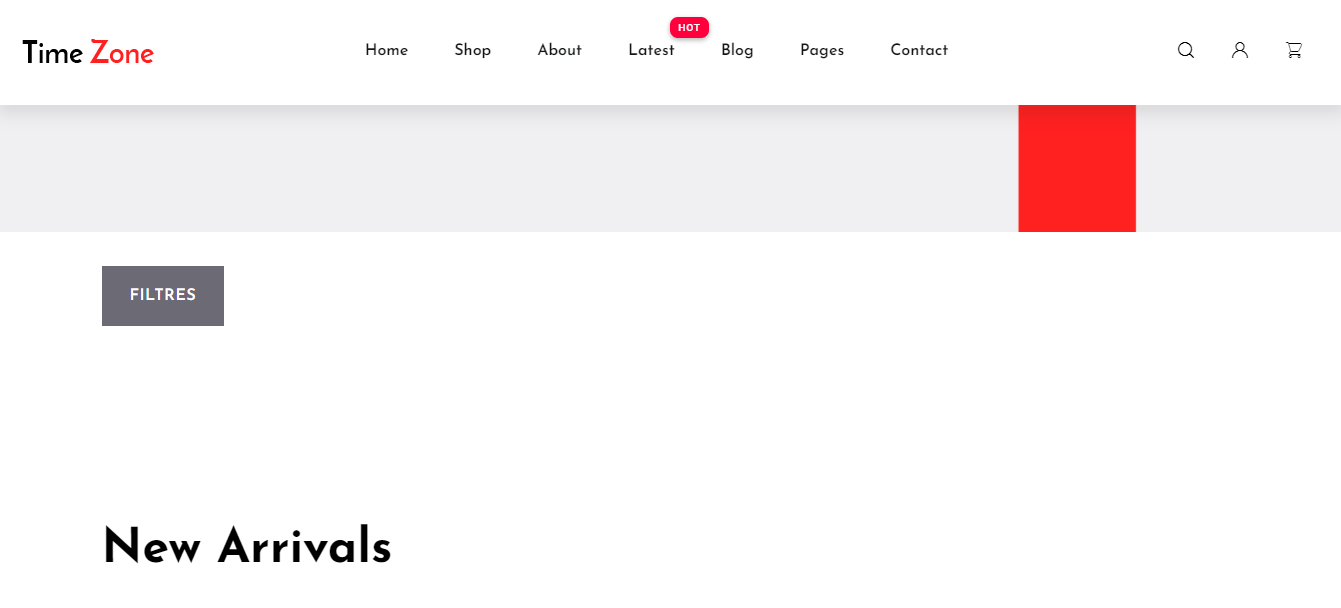
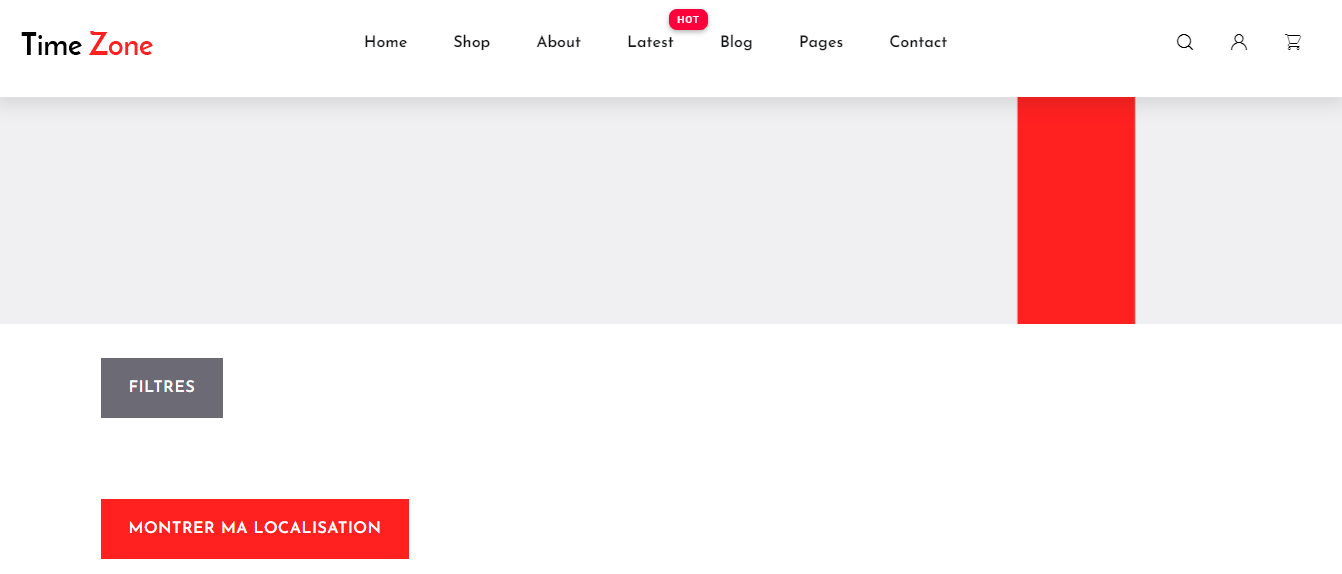
deux attributs longitude + latitude, adding a openstreetmap + add markers in map dynamically + geolocalisation => get current position

diff --git a/public/Map.js b/public/Map.js
@@ -1,0 +1,53 @@
+let $map =document.querySelector('#map')
+
+    class LeafletMap{
+
+    constructor() {
+    this.map = null
+    this.bounds=[]
+}
+
+    async load(element){
+    return new Promise((resolve, reject) => {
+    this.map = L.map(element)
+    L.tileLayer('https://api.mapbox.com/styles/v1/{id}/tiles/{z}/{x}/{y}?access_token={accessToken}', {
+    attribution: 'Map data &copy; <a href="https://www.openstreetmap.org/copyright">OpenStreetMap</a> contributors, Imagery © <a href="https://www.mapbox.com/">Mapbox</a>',
+    maxZoom: 18,
+    id: 'mapbox/streets-v11',
+    tileSize: 512,
+    zoomOffset: -1,
+    accessToken: 'pk.eyJ1Ijoic3BlYWt5OTgiLCJhIjoiY2ttbnA3NWtiMGpyZTJ1cGUzdG56bjN4cSJ9.SntRibYIa_8VaZnyFAZ-jA'
+}).addTo(this.map);
+    resolve()
+})
+}
+    addmarker(lat,lng,parent){
+    let point= [lat, lng]
+    this.bounds.push(point)
+    L.popup({
+    autoClose:false,
+    closeOnEscapeKey: false,
+    closeOnClick: false,
+    closeButton: false,
+    className : 'marker',
+    maxWidth: 480
+})
+    .setLatLng(point).setContent(parent).openOn(this.map)
+
+}
+    center(){
+    this.map.fitBounds(this.bounds)
+}
+}
+
+    const initMap = async function () {
+    let map = new LeafletMap()
+    await map.load($map)
+    Array.from(document.querySelectorAll('.js-marker')).forEach((item) => {
+    map.addmarker(item.dataset.lat,item.dataset.lng,item.dataset.parent)
+})
+    map.center()
+}
+    if($map !== null){
+    initMap()
+}

diff --git a/public/geolocalisation.js b/public/geolocalisation.js
@@ -1,0 +1,30 @@
+function geoFindMe() {
+
+    const status = document.querySelector('#status');
+    const mapLink = document.querySelector('#map-link');
+
+    mapLink.href = '';
+    mapLink.textContent = '';
+
+    function success(position) {
+    const latitude  = position.coords.latitude;
+    const longitude = position.coords.longitude;
+
+    status.textContent = '';
+    mapLink.href = `https://www.openstreetmap.org/#map=18/${latitude}/${longitude}`;
+    mapLink.textContent = `Latitude: ${latitude} °, Longitude: ${longitude} °`;
+}
+
+    function error() {
+    status.textContent = 'Unable to retrieve your location';
+}
+
+    if (!navigator.geolocation) {
+    status.textContent = 'Geolocation is not supported by your browser';
+} else {
+    status.textContent = 'Locating…';
+    navigator.geolocation.getCurrentPosition(success, error);
+}
+
+}
+    document.querySelector('#find-me').addEventListener('click', geoFindMe);

diff --git a/src/Controller/CampingController.php b/src/Controller/CampingController.php
@@ -31,7 +31,7 @@ class CampingController extends AbstractController
     {
         $get_sites=$this->getDoctrine()->getRepository(Camping::class);
         $site=$get_sites->findAll();
-        $liste=array(array('site'=>$site),array('offre'=>$this->getDoctrine()->getRepository(Offre::class)->findAll()));
+        $liste=array(array('site'=>$site));
         $camping =new Camping();
         $form = $this->createFormBuilder($camping)
             ->add('id', NumberType::class)
@@ -59,18 +59,18 @@ class CampingController extends AbstractController
             $get_sites1=$this->getDoctrine()->getRepository(Offre::class);
             $find=$get_sites1->find($camping->getFindOffre());
             $entityManager = $this->getDoctrine()->getManager();
-            if($find){
-                $camping->setImageCamping($newFilename);
+            if($find)
                 $camping->setOffreId($find);
-                $entityManager->persist($camping);
-                $entityManager->flush();
-            }
-            else{
-                $camping->setImageCamping($newFilename);
+
+            else
                 $camping->setOffreId(Null);
-                $entityManager->persist($camping);
-                $entityManager->flush();
-            }
+            $latitude= substr($camping->getLocalisationCamping(),0, strpos($camping->getLocalisationCamping(), ","));
+            $longitude= substr($camping->getLocalisationCamping(),strpos($camping->getLocalisationCamping(), ",")+2);
+            $camping->setLongitudeCamping($longitude);
+            $camping->setLatitudeCamping($latitude);
+            $camping->setImageCamping($newFilename);
+            $entityManager->persist($camping);
+            $entityManager->flush();
             return $this->redirectToRoute('Afficher_site');
         }
 
@@ -130,6 +130,10 @@ class CampingController extends AbstractController
                 $this->addFlash("warning", "No Offer found for id_offer");
                 $this->redirectToRoute('Afficher_site');
             }
+            $latitude= substr($camping->getLocalisationCamping(),0, strpos($camping->getLocalisationCamping(), ","));
+            $longitude= substr($camping->getLocalisationCamping(),strpos($camping->getLocalisationCamping(), ",")+2);
+            $camping->setLongitudeCamping($longitude);
+            $camping->setLatitudeCamping($latitude);
             $camping->setOffreId($find);
             $entityManager->flush();
             $this->addFlash("success", "The site has been updated");

diff --git a/src/Entity/Camping.php b/src/Entity/Camping.php
@@ -62,6 +62,16 @@ class Camping
      */
     private $average_rating;
 
+    /**
+     * @ORM\Column(type="string", length=255, nullable=true)
+     */
+    private $longitude_camping;
+
+    /**
+     * @ORM\Column(type="string", length=255, nullable=true)
+     */
+    private $latitude_camping;
+
     public function getId(): ?int
     {
         return $this->id;
@@ -164,6 +174,30 @@ class Camping
     public function setAverageRating(?float $average_rating): self
     {
         $this->average_rating = $average_rating;
+
+        return $this;
+    }
+
+    public function getLongitudeCamping(): ?string
+    {
+        return $this->longitude_camping;
+    }
+
+    public function setLongitudeCamping(?string $longitude_camping): self
+    {
+        $this->longitude_camping = $longitude_camping;
+
+        return $this;
+    }
+
+    public function getLatitudeCamping(): ?string
+    {
+        return $this->latitude_camping;
+    }
+
+    public function setLatitudeCamping(?string $latitude_camping): self
+    {
+        $this->latitude_camping = $latitude_camping;
 
         return $this;
     }

diff --git a/migrations/Version20210324201731.php b/migrations/Version20210324201731.php
@@ -1,0 +1,31 @@
+<?php
+
+declare(strict_types=1);
+
+namespace DoctrineMigrations;
+
+use Doctrine\DBAL\Schema\Schema;
+use Doctrine\Migrations\AbstractMigration;
+
+/**
+ * Auto-generated Migration: Please modify to your needs!
+ */
+final class Version20210324201731 extends AbstractMigration
+{
+    public function getDescription() : string
+    {
+        return '';
+    }
+
+    public function up(Schema $schema) : void
+    {
+        // this up() migration is auto-generated, please modify it to your needs
+        $this->addSql('ALTER TABLE camping ADD longitude_camping VARCHAR(255) DEFAULT NULL');
+    }
+
+    public function down(Schema $schema) : void
+    {
+        // this down() migration is auto-generated, please modify it to your needs
+        $this->addSql('ALTER TABLE camping DROP longitude_camping');
+    }
+}

diff --git a/migrations/Version20210324203546.php b/migrations/Version20210324203546.php
@@ -1,0 +1,31 @@
+<?php
+
+declare(strict_types=1);
+
+namespace DoctrineMigrations;
+
+use Doctrine\DBAL\Schema\Schema;
+use Doctrine\Migrations\AbstractMigration;
+
+/**
+ * Auto-generated Migration: Please modify to your needs!
+ */
+final class Version20210324203546 extends AbstractMigration
+{
+    public function getDescription() : string
+    {
+        return '';
+    }
+
+    public function up(Schema $schema) : void
+    {
+        // this up() migration is auto-generated, please modify it to your needs
+        $this->addSql('ALTER TABLE camping ADD latitude_camping VARCHAR(255) DEFAULT NULL');
+    }
+
+    public function down(Schema $schema) : void
+    {
+        // this down() migration is auto-generated, please modify it to your needs
+        $this->addSql('ALTER TABLE camping DROP latitude_camping');
+    }
+}
